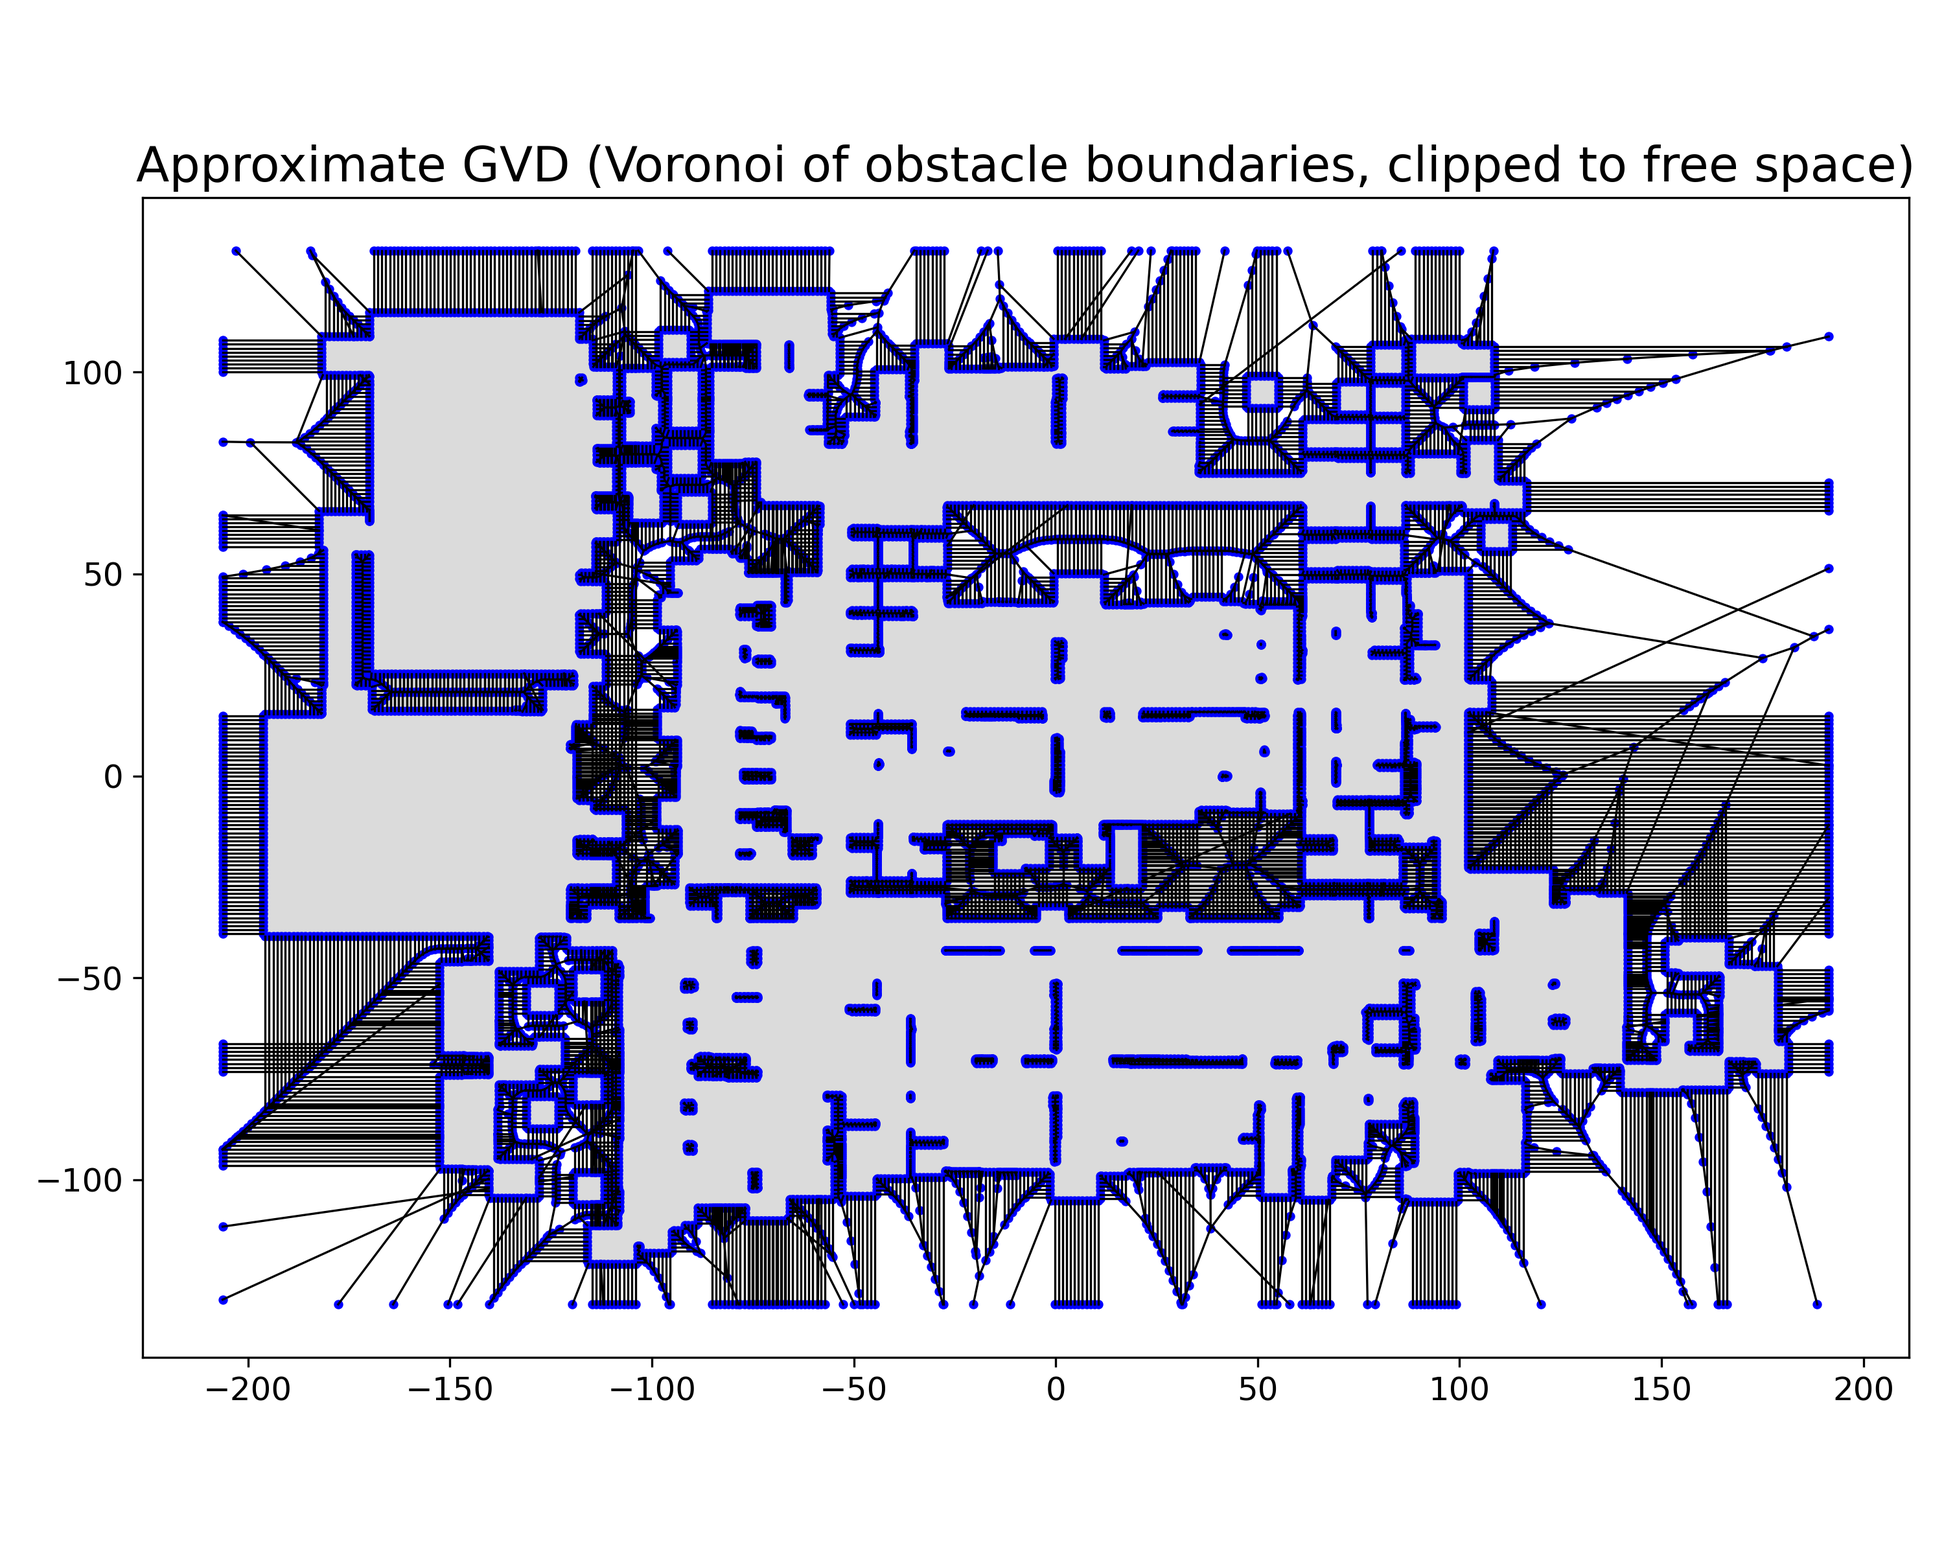
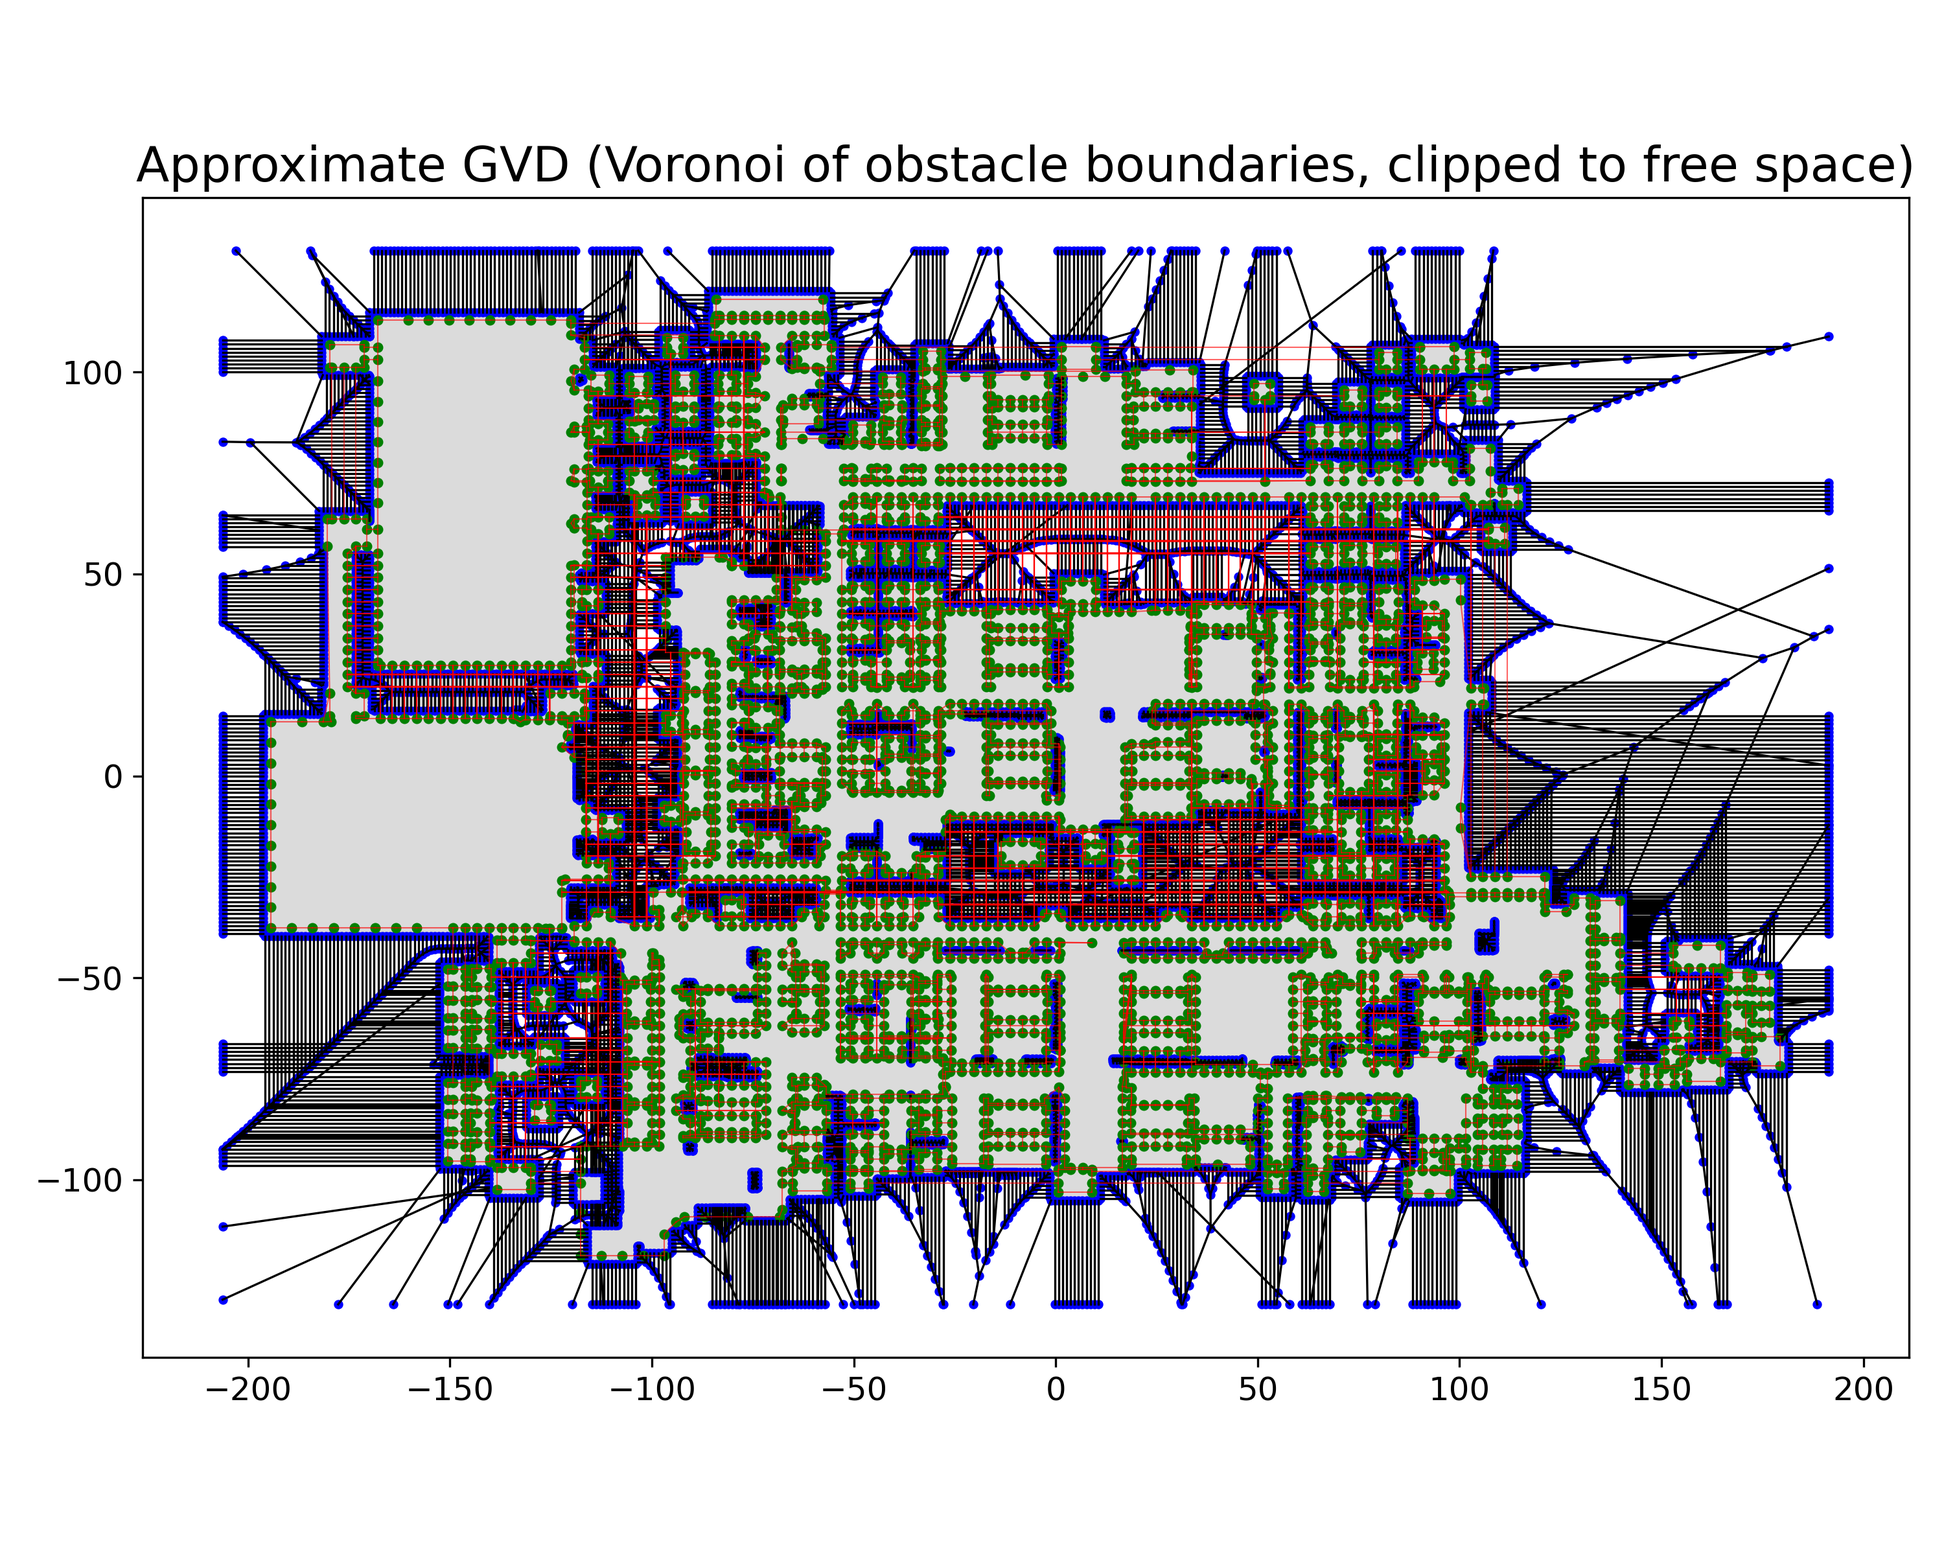
Comparison between Voronoi and AABB

Changed region(s): [[0.155, 0.1875, 0.93, 0.7812], [0.155, 0.2188, 0.217, 0.25], [0.341, 0.7812, 0.372, 0.8125]]

diff --git a/Resultados_artigo/analise_comparativa.py b/Resultados_artigo/analise_comparativa.py
@@ -25,6 +25,7 @@ import matplotlib.pyplot as plt
 from shapely.geometry import LineString, MultiPolygon, Polygon
 from shapely.ops import nearest_points, unary_union
 import pandas as pd
+import seaborn as sns
 
 # Garantir que a raiz do repositório esteja no path para importações
 REPO_ROOT = os.path.abspath(os.path.join(os.path.dirname(__file__), ".."))
@@ -42,42 +43,19 @@ from Resultados_artigo.gvd_from_equipment import (
 
 RESULTS_DIR = os.path.dirname(__file__)
 
-def get_edge_clearance(graph, obstacle_union):
-    """Calcula a distância mínima de cada aresta do grafo para a união de obstáculos."""
-    clearances = []
-    if not isinstance(obstacle_union, (Polygon, MultiPolygon)):
-        return clearances
+def find_closest_node(graph, point):
+    """Encontra o nó no grafo mais próximo de uma dada coordenada (x, y)."""
+    if not graph or graph.number_of_nodes() == 0:
+        return None
 
-    for u, v in graph.edges():
-        p1 = graph.nodes[u].get('pos')
-        p2 = graph.nodes[v].get('pos')
-        if p1 is None or p2 is None:
-            continue
-        
-        edge_line = LineString([p1, p2])
-        # Usamos o centro da aresta como uma aproximação para o cálculo da distância
-        mid_point = edge_line.interpolate(0.5, normalized=True)
-        
-        # Encontra o ponto mais próximo no obstáculo e calcula a distância
-        _, p_nearest = nearest_points(mid_point, obstacle_union)
-        dist = mid_point.distance(p_nearest)
-        clearances.append(dist)
-    return clearances
+    nodes_with_pos = {n: data['pos'] for n, data in graph.nodes(data=True) if 'pos' in data}
+    if not nodes_with_pos:
+        return None
 
-def get_obs_point_accessibility(graph, obs_points):
-    """Calcula a distância média de cada ponto de observação ao nó mais próximo no grafo."""
-    if not obs_points or graph.number_of_nodes() == 0:
-        return float('inf')
+    node_ids, coords = zip(*nodes_with_pos.items())
+    closest_idx = np.argmin(np.linalg.norm(np.array(coords) - np.array(point), axis=1))
+    return node_ids[closest_idx]
 
-    graph_nodes_coords = np.array([data['pos'] for _, data in graph.nodes(data=True)])
-    total_dist = 0
-    
-    for p_obs in obs_points:
-        obs_coord = np.array(p_obs[:2])
-        distances = np.linalg.norm(graph_nodes_coords - obs_coord, axis=1)
-        total_dist += np.min(distances)
-        
-    return total_dist / len(obs_points)
 
 def find_farthest_nodes(graph):
     """Encontra um par de nós que estão distantes no grafo."""
@@ -95,6 +73,131 @@ def find_farthest_nodes(graph):
     p1_new = max(lengths2, key=lengths2.get)
     
     return p1_new, p2
+
+def get_average_tortuosity(graph):
+    """Calcula a tortuosidade média para pares de nós no maior componente conectado."""
+    if graph.number_of_nodes() < 2:
+        return float('nan')
+
+    # Foca no maior componente para garantir que os caminhos existam
+    connected_components = list(nx.connected_components(graph))
+    if not connected_components: return float('nan')
+    largest_cc_nodes = max(connected_components, key=len)
+    if len(largest_cc_nodes) < 2:
+        return float('nan')
+    subgraph = graph.subgraph(largest_cc_nodes)
+
+    tortuosities = []
+    all_nodes = list(subgraph.nodes)
+    
+    # Amostragem para evitar consumo excessivo de memória e tempo.
+    # Seleciona um número fixo de nós de ORIGEM e para cada um, calcula o caminho para os outros.
+    # Isso é muito mais leve do que all_pairs_dijkstra.
+    num_source_nodes_sample = min(50, len(all_nodes))
+    source_nodes = np.random.choice(all_nodes, num_source_nodes_sample, replace=False)
+
+    for u in source_nodes:
+        # Calcula o caminho mais curto de 'u' para todos os outros nós no subgrafo
+        path_lengths = nx.single_source_dijkstra_path_length(subgraph, u, weight='weight')
+        
+        for v, path_length in path_lengths.items():
+            if u == v: continue
+
+            p1 = subgraph.nodes[u].get('pos')
+            p2 = subgraph.nodes[v].get('pos')
+            if p1 is None or p2 is None: continue
+            
+            euclidean_dist = np.linalg.norm(np.array(p1) - np.array(p2))
+            if euclidean_dist > 1e-6: # Evita divisão por zero
+                tortuosities.append(path_length / euclidean_dist)
+    
+    return np.mean(tortuosities) if tortuosities else float('nan')
+
+def plot_radar_chart(df, output_dir):
+    """Gera um radar chart para comparar as métricas normalizadas dos grafos."""
+    print("   - Gerando Radar Chart para comparação de trade-offs...")
+    
+    # Métricas para o radar chart. Escolhemos as que melhor representam os trade-offs.
+    # Nota: Para 'Tortuosidade' e 'Fragmentação', valores menores são melhores. Inverteremos a escala.
+    metrics = ['Vértices', 'Comprimento Total (m)', 'Tortuosidade Média', 'Índice Fragmentação']
+    df_radar = df[['Grafo'] + metrics].copy()
+
+    # Normaliza os dados (escala de 0 a 1)
+    for metric in metrics:
+        min_val = df_radar[metric].min()
+        max_val = df_radar[metric].max()
+        if max_val - min_val > 0:
+            df_radar[metric] = (df_radar[metric] - min_val) / (max_val - min_val)
+        else:
+            df_radar[metric] = 0.5 # Valor neutro se todos forem iguais
+
+    # Inverte a escala para métricas onde "menos é mais"
+    for metric in ['Tortuosidade Média', 'Índice Fragmentação']:
+        df_radar[metric] = 1 - df_radar[metric]
+
+    labels = df_radar.columns[1:]
+    num_vars = len(labels)
+
+    # Ângulos para o radar chart
+    angles = np.linspace(0, 2 * np.pi, num_vars, endpoint=False).tolist()
+    angles += angles[:1]
+
+    fig, ax = plt.subplots(figsize=(8, 8), subplot_kw=dict(polar=True))
+
+    for i, row in df_radar.iterrows():
+        values = row.drop('Grafo').tolist()
+        values += values[:1]
+        ax.plot(angles, values, label=row['Grafo'], linewidth=2)
+        ax.fill(angles, values, alpha=0.25)
+
+    ax.set_yticklabels([])
+    ax.set_xticks(angles[:-1])
+    ax.set_xticklabels([l.replace(' ', '\n') for l in labels])
+    plt.title('Comparação de Trade-offs dos Métodos (Radar Chart)', size=16, y=1.1)
+    plt.legend(loc='upper right', bbox_to_anchor=(1.3, 1.1))
+    plt.savefig(os.path.join(output_dir, "comparacao_radar_chart.png"), dpi=300, bbox_inches='tight')
+    plt.close()
+
+def plot_metrics_comparison(df, output_dir):
+    """Gera gráficos de barras comparando as métricas dos diferentes grafos."""
+    print("   - Gerando plots de comparação de métricas...")
+    
+    # Garante que as colunas de métricas sejam numéricas para plotagem
+    for col in df.columns:
+        if col != 'Grafo':
+            df[col] = pd.to_numeric(df[col])
+
+    # Define as métricas para os plots
+    metrics_to_plot = {
+        'Complexidade': ['Vértices', 'Arestas'],
+        'Eficiência e Coesão': ['Comprimento Total (m)', 'Tortuosidade Média', 'Índice Fragmentação']
+    }
+
+    sns.set_theme(style="whitegrid")
+    palette = "viridis"
+
+    # Plot para Complexidade
+    df_melted_complexity = df.melt(id_vars='Grafo', value_vars=metrics_to_plot['Complexidade'], var_name='Métrica', value_name='Valor')
+    plt.figure(figsize=(10, 6))
+    ax1 = sns.barplot(x='Métrica', y='Valor', hue='Grafo', data=df_melted_complexity, palette=palette)
+    ax1.set_title('Comparação de Complexidade do Grafo', fontsize=16)
+    ax1.set_ylabel('Contagem')
+    ax1.set_yscale('log') # Usar escala logarítmica para lidar com grandes diferenças
+    plt.tight_layout()
+    plt.savefig(os.path.join(output_dir, "comparacao_metricas_complexidade.png"), dpi=300)
+    plt.close()
+
+    # Plot para Eficiência e Coesão
+    df_melted_efficiency = df.melt(id_vars='Grafo', value_vars=metrics_to_plot['Eficiência e Coesão'], var_name='Métrica', value_name='Valor')
+    g = sns.catplot(x='Métrica', y='Valor', hue='Grafo', data=df_melted_efficiency, kind='bar', palette=palette, height=6, aspect=1.5, sharey=False)
+    g.fig.suptitle('Comparação de Eficiência e Coesão do Grafo', y=1.03, fontsize=16)
+    g.set_axis_labels("Métrica", "Valor")
+    g.set_xticklabels(rotation=10)
+    g.despine(left=True)
+    plt.tight_layout()
+    plt.savefig(os.path.join(output_dir, "comparacao_metricas_eficiencia.png"), dpi=300)
+    plt.close()
+    print(f"   - Plots de métricas salvos em: {output_dir}")
 
 def main():
     # --- Configuração ---
@@ -146,46 +249,42 @@ def main():
         num_edges = G.number_of_edges()
         total_length = sum(d['weight'] for _, _, d in G.edges(data=True))
         num_islands = nx.number_connected_components(G) if num_nodes > 0 else 0
-        
-        clearances = get_edge_clearance(G, obstacle_union_no_margin)
-        avg_clearance = np.mean(clearances) if clearances else 0
-        
-        accessibility = get_obs_point_accessibility(G, obs_points_coords)
+        density = nx.density(G) if num_nodes > 1 else 0
+
+        fragmentation_index = 0.0
+        if num_nodes > 0:
+            largest_cc = max(nx.connected_components(G), key=len, default=set())
+            fragmentation_index = 1.0 - (len(largest_cc) / num_nodes)
+
+        avg_tortuosity = get_average_tortuosity(G)
 
         results.append({
             "Grafo": name,
             "Vértices": num_nodes,
             "Arestas": num_edges,
             "Comprimento Total (m)": f"{total_length:.1f}",
+            "Densidade": f"{density:.4f}",
+            "Tortuosidade Média": f"{avg_tortuosity:.3f}",
+            "Índice Fragmentação": f"{fragmentation_index:.3f}",
             "Nº de Ilhas": num_islands,
-            "Folga Média (m)": f"{avg_clearance:.2f}",
-            "Acessibilidade Obs. (m)": f"{accessibility:.2f}"
         })
 
     df = pd.DataFrame(results)
     print("\n--- Tabela de Resultados ---")
     print(df.to_string(index=False))
 
+    # Salva a tabela em um arquivo CSV
+    csv_path = os.path.join(RESULTS_DIR, "comparacao_resultados.csv")
+    df.to_csv(csv_path, index=False, float_format='%.4f')
+    print(f"\nTabela de resultados salva em: {csv_path}")
+
+    # Copia o DataFrame para não alterar o original que será usado no plot de caminhos
+    df_plot = df.copy()
+
     # --- Análise Visual (Plots) ---
     print("\n4. Gerando plots comparativos...")
 
-    # Plot 1: Histograma de Distâncias de Segurança (Folga)
-    plt.figure(figsize=(12, 7))
-    for name, G in graphs.items():
-        clearances = get_edge_clearance(G, obstacle_union_no_margin)
-        if clearances:
-            plt.hist(clearances, bins=50, alpha=0.6, label=name, density=True)
-    plt.title("Distribuição da Distância de Segurança das Arestas aos Obstáculos")
-    plt.xlabel("Distância (folga) da aresta ao obstáculo mais próximo (m)")
-    plt.ylabel("Densidade")
-    plt.legend()
-    plt.grid(True, linestyle='--', alpha=0.6)
-    out_path_hist = os.path.join(RESULTS_DIR, "comparacao_distancias_seguranca.png")
-    plt.savefig(out_path_hist, dpi=300)
-    print(f"   - Histograma salvo em: {out_path_hist}")
-    plt.close()
-
-    # Plot 2: Comparação de Caminhos Mais Curtos
+    # Plot 1: Comparação de Caminhos Mais Curtos
     fig, ax = plt.subplots(figsize=(14, 10))
     
     # Desenha os obstáculos
@@ -205,18 +304,32 @@ def main():
         ax.plot(end_pos[0], end_pos[1], 'ro', markersize=10, label='Fim')
 
         colors = {'AABB': 'blue', 'GVD (margin=3.5)': 'orange', 'GVD (margin=0)': 'purple'}
-        
+        colors = {
+            f"AABB (margin={AABB_MARGIN})": ('blue', '-'),
+            f"GVD (margin={GVD_MARGIN})": ('darkorange', '--'),
+            "GVD (margin=0)": ('purple', ':')
+        }
+
         for name, G in graphs.items():
-            key_part = name.split(' ')[0] # 'AABB' ou 'GVD'
-            color = colors.get(key_part, 'black')
+            color, style = colors.get(name, ('black', '-'))
             
+            # Encontra os nós mais próximos das posições de início/fim para este grafo específico
+            current_start_node = find_closest_node(G, start_pos)
+            current_end_node = find_closest_node(G, end_pos)
+
+            if not current_start_node or not current_end_node:
+                print(f"   - Aviso: Não foi possível encontrar nós de início/fim para o grafo '{name}'.")
+                continue
+
             try:
-                path_nodes = nx.shortest_path(G, source=start_node, target=end_node, weight='weight')
+                path_nodes = nx.shortest_path(G, source=current_start_node, target=current_end_node, weight='weight')
+                path_length = nx.shortest_path_length(G, source=current_start_node, target=current_end_node, weight='weight')
+                label_text = f"{name} ({path_length:.1f} m)"
                 path_edges = list(zip(path_nodes, path_nodes[1:]))
                 for u, v in path_edges:
                     p1 = G.nodes[u]['pos']
                     p2 = G.nodes[v]['pos']
-                    ax.plot([p1[0], p2[0]], [p1[1], p2[1]], color=color, linewidth=2.5, label=name if (u,v) == path_edges[0] else "")
+                    ax.plot([p1[0], p2[0]], [p1[1], p2[1]], color=color, linestyle=style, linewidth=2.5, label=label_text if (u,v) == path_edges[0] else "")
             except (nx.NetworkXNoPath, nx.NodeNotFound):
                 print(f"   - Aviso: Não foi possível encontrar caminho entre os pontos para o grafo '{name}'.")
 
@@ -228,6 +341,12 @@ def main():
     plt.savefig(out_path_paths, dpi=300)
     print(f"   - Plot de caminhos salvo em: {out_path_paths}")
     plt.close()
+
+    # Plot 2: Gráficos de Barras das Métricas
+    plot_metrics_comparison(df_plot, RESULTS_DIR)
+
+    # Plot 3: Radar Chart
+    plot_radar_chart(df_plot, RESULTS_DIR)
 
     print("\nAnálise concluída com sucesso!")
 

diff --git a/aabbutils.py b/aabbutils.py
@@ -11,12 +11,13 @@ import matplotlib.pyplot as plt
 class AABBUtils:
 
     # Margens padrão por tipo de equipamento/obstáculo.
-    margin_aabb = {
-        'bombeiro': 1.5, 'caixa': 1.5, 'torre': 1.5, 'tpc': 1.5, 'tc': 1.5, 'secv': 1.5, 'sech': 1.5, 'reator': 1.5,
-        'pr': 1.5, 'ip': 1.5, 'busip': 1.5, 'buscsb': 1.5, 'disjuntor': 1.5,
-        'estrutura': 1.5, 'transformador': 1.5, 'talude': 1.5, 'canaleta': 1.5, 'diversos': 1.5, 'obstsech': 1.5,
-        'cercado': 1.5, 'obstaculo': 1.5, 'svc': 1.5
-    }
+    # margin_aabb = {
+    #     'bombeiro': 1.5, 'caixa': 1.5, 'torre': 1.5, 'tpc': 1.5, 'tc': 1.5, 'secv': 1.5, 'sech': 1.5, 'reator': 1.5,
+    #     'pr': 1.5, 'ip': 1.5, 'busip': 1.5, 'buscsb': 1.5, 'disjuntor': 1.5,
+    #     'estrutura': 1.5, 'transformador': 1.5, 'talude': 1.5, 'canaleta': 1.5, 'diversos': 1.5, 'obstsech': 1.5,
+    #     'cercado': 1.5, 'obstaculo': 1.5, 'svc': 1.5
+    # }
+    margin_aabb = None
 
     @staticmethod
     def connect_neighbor_aabbs(aabbs, points, threshold):
@@ -337,10 +338,11 @@ class AABBUtils:
             # comprimento decrescente para evitar colisões (p.ex. 'tpc' vs 'tc').
             label_l = label.lower()
             margin_value = margin
-            for key in sorted(AABBUtils.margin_aabb.keys(), key=len, reverse=True):
-                if key in label_l:
-                    margin_value = AABBUtils.margin_aabb[key]
-                    break
+            if AABBUtils.margin_aabb is not None:
+                for key in sorted(AABBUtils.margin_aabb.keys(), key=len, reverse=True):
+                    if key in label_l:
+                        margin_value = AABBUtils.margin_aabb[key]
+                        break
             
             # Canto inferior esquerdo da AABB
             aabb_x = x - (w / 2 + margin_value)
